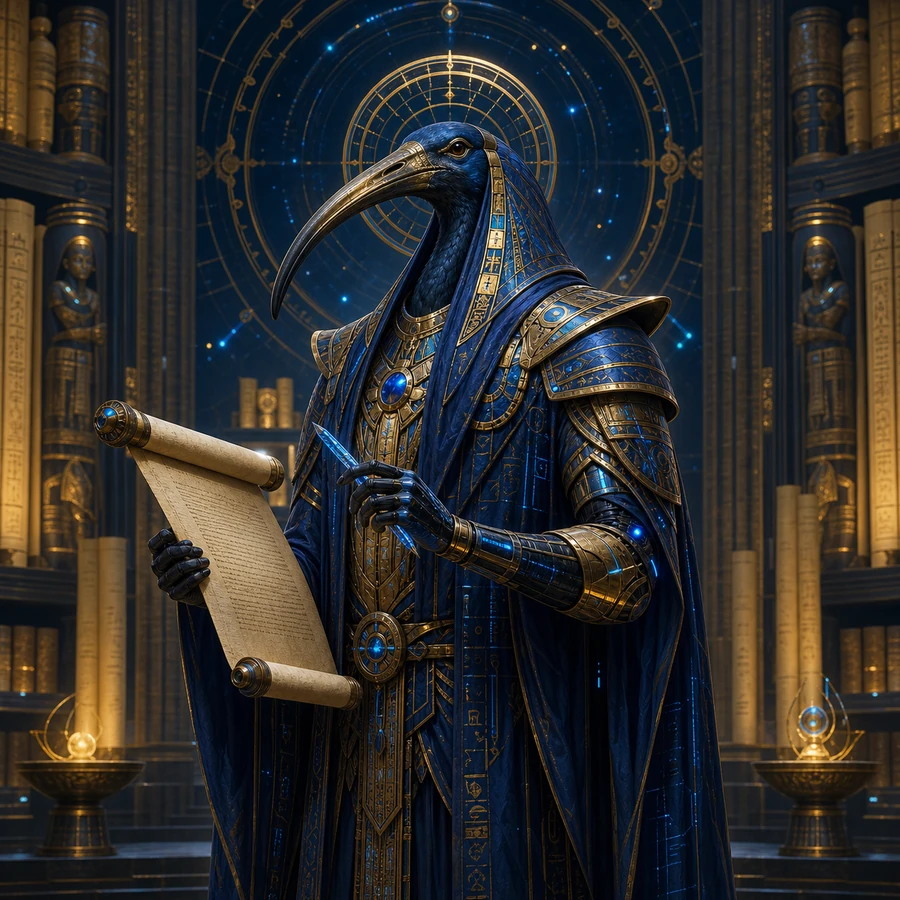
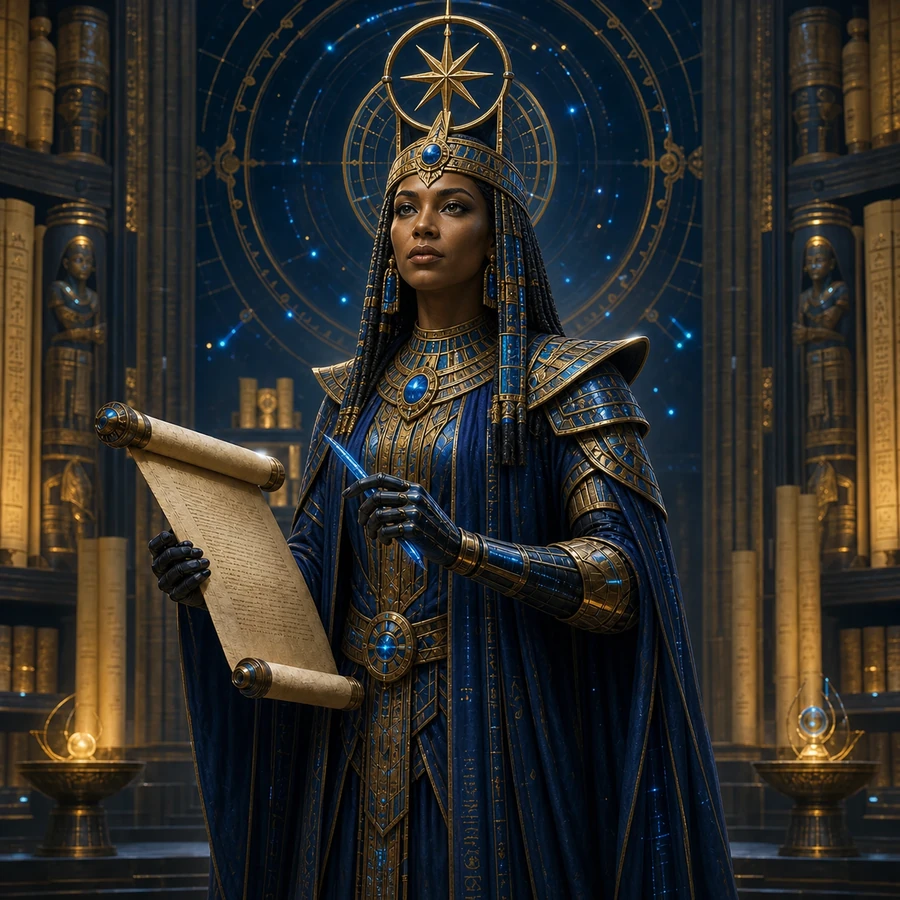
docs(readme): expand role descriptions and add visuals
Enhanced README with detailed descriptions and images for seven roles,
clarifying their responsibilities and groupings. Updated alt text for
better accessibility and added cyber-Egyptian portraits to improve visual
engagement. Refined plugin synchronization details under integrations.

Refs: #spec-kit

diff --git a/README.md b/README.md
@@ -1,5 +1,5 @@
 <div align="center">
-  <img src="img/thoth-agents-header.webp" alt="The cyber-Egyptian agents of thoth-agents" width="100%">
+  <img src="img/thoth-agents-header.webp" alt="Seven cyber-Egyptian thoth-agents roles, with Thoth as the Orchestrator centered between three read-only specialists and three implementation writers" width="100%">
   <h1>Thoth-Agents</h1>
   <p><i>Adaptive orchestration for OpenCode, Codex, and Claude Code.</i></p>
   <p><b>Seven roles</b> · <b>Three SDD routes</b> · <b>Runtime-autonomous SDD</b></p>
@@ -124,15 +124,137 @@ and limitations.
 
 ## Seven roles
 
-| Mode | Roles | Responsibility |
-| --- | --- | --- |
-| Adaptive root | `orchestrator` | Keep task ownership and synthesis, choose the route, coordinate SDD artifacts, and implement bounded work directly. |
-| Read-only | `explorer` | Resolve repository uncertainty and return decision-ready local evidence. |
-| Read-only | `librarian` | Gather current authoritative external evidence and label inference. |
-| Read-only | `oracle` | Challenge plans, own Full analysis, and independently verify every implementation. |
-| Writer | `designer` | Own UI/UX choices, implementation, and visual verification. |
-| Writer | `quick` | Make narrow, clear, low-risk edits within an explicit surface. |
-| Writer | `deep` | Handle multi-file, edge-case-heavy, or correctness-critical implementation. |
+One adaptive root and six specialists cover repository discovery, authoritative
+research, independent verification, UI/UX, narrow implementation, and
+correctness-critical work.
+
+### Adaptive root
+
+<table width="100%">
+  <tr>
+    <td width="34%" align="center" valign="top">
+      <img src="img/agents/orchestrator.webp" width="240" alt="Cyber-Egyptian Orchestrator represented by Thoth coordinating the team">
+    </td>
+    <td width="66%" valign="top">
+      <b>Orchestrator</b>
+      <br>
+      <i>Adaptive root and final synthesis.</i>
+      <br><br>
+      Keeps task ownership and synthesis, chooses the route, coordinates SDD
+      artifacts, and implements bounded work directly.
+      <br><br>
+      <b>Mode:</b> <code>adaptive-root</code>
+    </td>
+  </tr>
+</table>
+
+### Read-only specialists
+
+<table width="100%">
+  <tr>
+    <td width="34%" align="center" valign="top">
+      <img src="img/agents/explorer.webp" width="240" alt="Cyber-Egyptian Explorer represented by Anubis tracing repository paths">
+    </td>
+    <td width="66%" valign="top">
+      <b>Explorer</b>
+      <br>
+      <i>Decision-ready local discovery.</i>
+      <br><br>
+      Resolves repository uncertainty and returns decision-ready local evidence.
+      <br><br>
+      <b>Mode:</b> <code>read-only</code>
+    </td>
+  </tr>
+</table>
+
+<table width="100%">
+  <tr>
+    <td width="34%" align="center" valign="top">
+      <img src="img/agents/librarian.webp" width="240" alt="Cyber-Egyptian Librarian represented by Seshat consulting an authoritative scroll">
+    </td>
+    <td width="66%" valign="top">
+      <b>Librarian</b>
+      <br>
+      <i>Authoritative external research.</i>
+      <br><br>
+      Gathers current authoritative external evidence and labels inference.
+      <br><br>
+      <b>Mode:</b> <code>read-only</code>
+    </td>
+  </tr>
+</table>
+
+<table width="100%">
+  <tr>
+    <td width="34%" align="center" valign="top">
+      <img src="img/agents/oracle.webp" width="240" alt="Cyber-Egyptian Oracle represented by Ma'at weighing independent evidence">
+    </td>
+    <td width="66%" valign="top">
+      <b>Oracle</b>
+      <br>
+      <i>Independent analysis and verification.</i>
+      <br><br>
+      Challenges plans, owns Full analysis, and independently verifies every
+      implementation.
+      <br><br>
+      <b>Mode:</b> <code>read-only</code>
+    </td>
+  </tr>
+</table>
+
+### Implementation writers
+
+<table width="100%">
+  <tr>
+    <td width="34%" align="center" valign="top">
+      <img src="img/agents/designer.webp" width="240" alt="Cyber-Egyptian Designer represented by Hathor shaping interface geometry">
+    </td>
+    <td width="66%" valign="top">
+      <b>Designer</b>
+      <br>
+      <i>UI/UX ownership and visual quality.</i>
+      <br><br>
+      Owns UI/UX choices, implementation, and visual verification.
+      <br><br>
+      <b>Mode:</b> <code>write-capable</code>
+    </td>
+  </tr>
+</table>
+
+<table width="100%">
+  <tr>
+    <td width="34%" align="center" valign="top">
+      <img src="img/agents/quick.webp" width="240" alt="Cyber-Egyptian Quick represented by Horus placing a precise component">
+    </td>
+    <td width="66%" valign="top">
+      <b>Quick</b>
+      <br>
+      <i>Fast bounded implementation.</i>
+      <br><br>
+      Makes narrow, clear, low-risk edits within an explicit surface.
+      <br><br>
+      <b>Mode:</b> <code>write-capable</code>
+    </td>
+  </tr>
+</table>
+
+<table width="100%">
+  <tr>
+    <td width="34%" align="center" valign="top">
+      <img src="img/agents/deep.webp" width="240" alt="Cyber-Egyptian Deep represented by Sobek examining a complex mechanism">
+    </td>
+    <td width="66%" valign="top">
+      <b>Deep</b>
+      <br>
+      <i>Correctness-critical implementation.</i>
+      <br><br>
+      Handles multi-file, edge-case-heavy, or correctness-critical
+      implementation.
+      <br><br>
+      <b>Mode:</b> <code>write-capable</code>
+    </td>
+  </tr>
+</table>
 
 Children do not delegate. Each mutable surface has one writer. Parallel work is
 limited to independent surfaces. The implementation writer never reviews or
@@ -209,8 +331,8 @@ QA executables such as Playwright remain project-owned.
 
 Codex and Claude marketplace manifests are versioned in
 `.agents/plugins/marketplace.json` and `.claude-plugin/marketplace.json`. The
-generated integration packages live under `integrations/` and are synchronized
-by build and npm version lifecycle commands.
+two catalogs resolve to the same generated `plugin/` bundle. Build and npm
+version lifecycle commands keep that shared bundle synchronized.
 
 ## Models and provider boundaries
 
